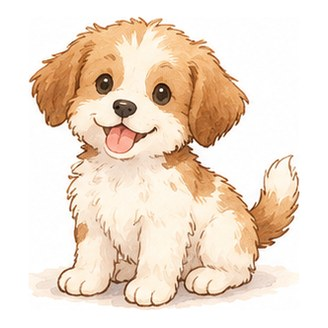
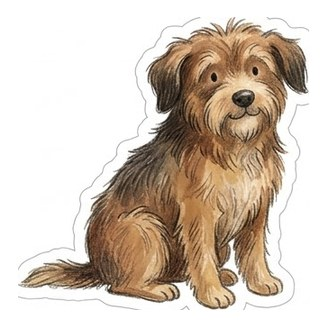
Minho scenes: 8 highlight pictures (pencil case over the head, both suspected, the cat, the mimicry, the broken umbrella, the dog behind the fence, the drawing with horns, the first-grader's pencil case) shown at the choice; big dog, crumpled test paper, ballot box and milk crate pictures on the map
Pictures made in Flow (Nano Banana 2.1, Minho's sheet and Day 2 scene as references), first-person scenes show only a hand so they fit both heroes.

diff --git a/day2/ep_minho.js b/day2/ep_minho.js
@@ -1,12 +1,12 @@
 // 최민호 — scenes by meeting (Day N = the Nth meeting with Minho; meeting 1 = Day 2). Source: 괴짜교실_시나리오_개정작업/02_인물별_시나리오/최민호_Day2-16R_전면개정.md
-// ep = {title, place, at:[x,y] (Minho on that map), with:[[id,x,y]] (others there), things:{map:[[k,x,y,w]]} (pictures laid on the map), taps:{map:[[k,x,y,r]]} (drawn things),
+// ep = {title, place, at:[x,y] (Minho on that map), with:[[id,x,y]] (others there), things:{map:[[k,x,y,w,picture?]]} (pictures laid on the map; items/<picture or k>.png), taps:{map:[[k,x,y,r]]} (drawn things),
 //  pre:[line | find], ask, choices:[{k,text,pts,r}], post:[line | find | {only:[choice…],lines} | {flag,is,lines}], flag:{name:{A:1,…}},
 //  eve:{lead, A, B, C, D, common, commonIf:{only:[…],lines}}}
 // find = {k, goal}: the goal bar shows the goal with the word + 🔊; the confirm button shows the same goal with the word (whatever was tapped).
 window.EP=window.EP||{};
 EP.minho=[
 // ■ Day 2 — 지렁이 글자 (1)
-{title:'지렁이 글자',place:'class',at:[640,600],
+{title:'지렁이 글자',scene:'minho_01',place:'class',at:[640,600],
  taps:{class:[['desk',830,425,60],['desk',400,425,55],['desk',1290,545,55],['desk',300,745,50],['pencil',612,668,16],['pencil',640,660,14]]},
  pre:[
   ['nar','','쉬는 시간. 민호가 자기 {@desk}에 걸터앉아 다리를 흔들고 있었다.'],
@@ -103,7 +103,7 @@ EP.minho=[
   D:[['me','sad','영민이가 말하지 말래서 비밀로 하기로 했어.'],['mom','smile','영민이 부탁을 들어주고 싶었구나.'],['me','sad','응. 근데 민호가 다음에 또 빌리면 된대.'],['mom','sad','그 말이 걸리지? 친구 부탁을 지키는 것도 중요해. 그런데 누가 계속 괴롭힘을 당하는 건 비밀로 두면 안 되는 일이야.'],['mom','smile','영민이한테 다시 말해 볼래? 네가 같이 가 준다고.']]}},
 
 // ■ Day 4 — 고양이를 부르는 말 (3)
-{title:'고양이를 부르는 말',place:'field',at:[1400,700],
+{title:'고양이를 부르는 말',place:'field',scene:'minho_03',at:[1400,700],
  things:{field:[['cat',1470,668,84]]},
  pre:[
   ['nar','','자전거 보관대 뒤 화단. 민호가 쪼그려 앉아 꼼짝도 안 하고 있었다. 내가 다가가자 민호가 손가락을 입에 댔다.'],
@@ -147,7 +147,7 @@ EP.minho=[
   common:[['mom','smile','그 {@cat}, 이름은 있어?'],['me','smile','아직 없어.']]}},
 
 // ■ Day 5 — 봉투는 누가? (4)
-{title:'봉투는 누가?',place:'class',at:[330,262],
+{title:'봉투는 누가?',scene:'minho_04',place:'class',at:[330,262],
  things:{class:[['envelope',1062,150,56]]},
  pre:[
   ['nar','','아침부터 교실이 시끄러웠다. 학급비 {@envelope}가 없어졌다. 몇몇 아이가 민호 쪽을 힐끔거리며 수군거렸다.'],
@@ -200,7 +200,7 @@ EP.minho=[
   common:[['me','smile','{@envelope}, 내가 찾았어. {@blackboard} 아래 틈에서.'],['mom','laugh','어머, 우리 탐정이네.']]}},
 
 // ■ Day 6 — 저눈 반장 손거 (5) ★
-{title:'저눈 반장 손거',place:'class',at:[1300,262],
+{title:'저눈 반장 손거',place:'class',scene:'minho_05',at:[1300,262],
  things:{class:[['notebook',1250,300,40]]},
  pre:[
   ['nar','','다음 국어 시간에 「나의 꿈」을 한 문장씩 발표해야 했다. 민호가 사물함 앞에 서 있어서 나는 그쪽으로 갔다.'],
@@ -333,7 +333,7 @@ EP.minho=[
   D:[['me','smile','민호한테 그만하고 작전 짜자고 했어. 민호는 앞에서 던지고, 은찬이는 뒤에서 피하라고.'],['mom','surprised','민호가 들었어?'],['me','smile','던지는 거 제일 세다고 하니까 들었어.'],['mom','laugh','다들 잘하는 자리에 세운 거네.'],['me','smile','반장 되면 이런 거 하는 건가?'],['mom','smile','그럴지도 모르지.']]}},
 
 // ■ Day 9 — 뒤집힌 우산 (8)
-{title:'뒤집힌 우산',place:'hall',at:[330,700],
+{title:'뒤집힌 우산',scene:'minho_08',place:'hall',at:[330,700],
  pre:[
   ['nar','','하교 시간. 비가 오고 바람이 셌다. 교문 옆에서 민호가 뒤집힌 {@umbrella}과 씨름하고 있었다. 나는 민호 쪽으로 갔다.'],
   ['minho','angry','아, 진짜! 바람 한 번 불었다고 뒤집히냐?'],
@@ -366,7 +366,7 @@ EP.minho=[
 
 // ■ Day 10 — 빨간 동그라미 (9)
 {title:'빨간 동그라미',place:'class',at:[640,600],
- things:{class:[['paper',762,612,48]]},
+ things:{class:[['paper',762,612,56,'paper_crumpled']]},
  pre:[
   ['nar','','받아쓰기 시험지를 돌려받은 쉬는 시간. 나는 60점이었다. 받침을 거의 다 틀렸다.'],
   ['nar','','민호 자리 쪽이 시끄러워서 그쪽으로 가 봤다.'],
@@ -406,8 +406,8 @@ EP.minho=[
   common:[['mom','smile','받침, {m}랑 같이 연습할까?'],['me','smile','응. 다음엔 70점.']]}},
 
 // ■ Day 11 — 울타리 너머 (10)
-{title:'울타리 너머',place:'field',at:[1430,430],
- things:{field:[['big_dog',1545,330,96]]},
+{title:'울타리 너머',scene:'minho_10',place:'field',at:[1430,430],
+ things:{field:[['big_dog',1545,335,120]]},
  taps:{field:[['door',1612,218,32]]},
  pre:[
   ['nar','','쉬는 시간, 학교 뒤뜰. 민호가 울타리 쪽에 서 있어서 그쪽으로 가다가, 나는 멈춰 섰다.'],
@@ -485,7 +485,7 @@ EP.minho=[
 
 // ■ Day 13 — 초코우유 (12)
 {title:'초코우유',place:'class',at:[1060,800],
- things:{class:[['milk',905,880,46],['milk',955,886,46]]},
+ things:{class:[['milk',930,888,92,'milk_crate']]},
  pre:[
   ['nar','','점심시간이 끝나 갈 무렵. 교실 뒤에 남은 급식 {@milk} {@box}가 있었다. 선생님이 먹고 싶은 사람은 가져가도 된다고 하셨다.'],
   ['nar','','민호가 {@box} 앞에 쪼그려 앉아 있어서 나는 그쪽으로 갔다.'],
@@ -518,7 +518,7 @@ EP.minho=[
   D:[['me','smile','배불러서 고맙지만 안 먹는다고 했어. 민호가 그럼 두 개 먹겠대.'],['mom','smile','배부르면 그렇게 말해도 돼. 민호도 그냥 알겠다고 했네.'],['me','laugh','응. 양손에 들고 갔어.'],['mom','laugh','민호만 신났네.']]}},
 
 // ■ Day 14 — 내 그림 지붕의 뿔 (13)
-{title:'내 그림 지붕의 뿔',place:'hall',at:[430,430],
+{title:'내 그림 지붕의 뿔',scene:'minho_13',place:'hall',at:[430,430],
  taps:{hall:[['picture',115,215,55],['picture',185,330,45],['picture',60,420,45]]},
  things:{hall:[['tape',330,560,32]]},
  pre:[
@@ -604,7 +604,7 @@ EP.minho=[
   common:[['me','laugh','그리고 「모두가 사이좋은 반」은 빼래.'],['mom','laugh','민호가 공약도 봐 줬네.']]}},
 
 // ■ Day 16R — 떨어진 필통 (15)
-{title:'떨어진 필통',place:'hall',at:[950,700],
+{title:'떨어진 필통',scene:'minho_15',place:'hall',at:[950,700],
  things:{hall:[['eraser',1010,762,26],['pcase',900,772,50]]},
  pre:[
   ['nar','','쉬는 시간. 1학년 교실 앞 복도를 지나는데, 앞서가던 민호가 갑자기 멈춰 섰다. 나는 민호 쪽으로 갔다.'],
@@ -641,7 +641,7 @@ EP.minho=[
 
 // 특별 장면 — 접힌 종이 (투표일): only on the election day, if Minho was met 4+ times; does not count as a meeting
 EP.minho_vote={title:'접힌 종이',place:'class',at:[700,330],vote:true,
- things:{class:[['box',1180,262,70],['paper',760,350,36]]},
+ things:{class:[['box',1180,262,80,'ballot_box'],['paper',760,350,36]]},
  pre:[
   ['nar','','투표 날. 교실 뒤에 투표함이 놓였다. 나는 후보라서 투표를 먼저 마쳤다. 민호가 줄 뒤쪽에 서 있어서 나는 그쪽으로 갔다.'],
   {k:'box',goal:'「{x}」 찾기'},

diff --git a/index.html b/index.html
@@ -119,14 +119,14 @@ body,button{word-break:keep-all;overflow-wrap:break-word}
 <div id="fader"></div>
 <script>
 // same address, newest version: if the page this phone has kept is older than the one online, fetch the new one and reopen
-const BUILD='1024085451';
+const BUILD='1024091438';
 try{fetch(location.pathname,{cache:'no-store'}).then(r=>r.text()).then(t=>{const m=t.match(/const BUILD='(\d+)'/);if(m&&m[1]!==BUILD&&sessionStorage.getItem('upd')!==m[1]){sessionStorage.setItem('upd',m[1]);fetch(location.pathname,{cache:'reload'}).then(()=>location.reload())}}).catch(()=>{})}catch(e){}
 </script>
-<script src="i18n.js?v=1024085451"></script>
-<script src="i18n_prologue_v2.js?v=1024085451"></script>
-<script src="day2/i18n_engine.js?v=1024085451"></script>
-<script src="day2/data.js?v=1024085451"></script>
-<script src="day3/data.js?v=1024085451"></script>
+<script src="i18n.js?v=1024091438"></script>
+<script src="i18n_prologue_v2.js?v=1024091438"></script>
+<script src="day2/i18n_engine.js?v=1024091438"></script>
+<script src="day2/data.js?v=1024091438"></script>
+<script src="day3/data.js?v=1024091438"></script>
 <script>
 // ---------- data ----------
 const MW=1672,MH=941,KID=180;
@@ -453,10 +453,10 @@ function pickHero(){const m=document.getElementById('modal'),c=document.getEleme
  c.innerHTML=`<h2>${tr('괴짜교실 반장되기')}</h2><p>${tr('말 한마디 못 하는 전학생,<br>반장 선거에 나가다.')}</p><p style="margin-top:14px">${tr('누구로 할까요?')}</p>${(()=>{const s=loadSave();return s&&s.day>=2&&s.mode===UI+'-'+LANG?`<p><button class="big" id="cont">${tr(s.day+'일차부터 이어 하기')}</button></p>`:''})()}<div class="pick heroes"><button data-h="hero_f"><img src="faces/hero_f_smile.jpg" alt="여자 주인공"></button><button data-h="hero_m"><img src="faces/hero_m_smile.jpg" alt="남자 주인공"></button></div>`;
  m.classList.add('on');{const cb=document.getElementById('cont');if(cb)cb.onclick=()=>{const s=loadSave();HERO=s.hero;Object.assign(HEART,s.heart||{});(s.found||[]).forEach(k=>FOUND.add(k));HEART_D1={...HEART};chime();(typeof contGame==='function'?contGame(s):startDay(Math.min(s.day,Object.keys(window.D3||{}).length?3:2)))}}c.querySelectorAll('.pick button').forEach(b=>b.onclick=()=>{HERO=b.dataset.h;m.classList.remove('on');chime();bgm('day');load('home_am');say([['nar','','이사 온 다음 날 아침. 아직 풀지 못한 상자들이 쌓여 있다.'],['think','sad','(오늘부터 새 학교야. 여기 말도 아직 서툰데…….)'],['think','smile','({m}한테 인사하고 학교 가야지.)']],morning)})}
 </script>
-<script src="day2/engine.js?v=1024085451"></script>
-<script src="day2/ep_minho.js?v=1024085451"></script>
-<script src="day2/i18n_meet.js?v=1024085451"></script>
-<script src="day2/meet.js?v=1024085451"></script>
+<script src="day2/engine.js?v=1024091438"></script>
+<script src="day2/ep_minho.js?v=1024091438"></script>
+<script src="day2/i18n_meet.js?v=1024091438"></script>
+<script src="day2/meet.js?v=1024091438"></script>
 <script>
 // the goal shows big for a few seconds, then folds into a small pill (tap it to open it again)
 {const g=document.getElementById('goal');let t=null;const big=()=>{g.classList.remove('mini');clearTimeout(t);t=setTimeout(()=>g.classList.add('mini'),4000)};

diff --git a/day2/meet.js b/day2/meet.js
@@ -27,6 +27,11 @@ setDay=function(n){_setDay(NATIVE_BY[n]?n:2);DAY=n;for(const k in THINGS)delete 
  for(const f of D2IDS){const e=epNext(f,EPIDX[f]);if(!e)continue;
   for(const[m,ts]of Object.entries(e.taps||{}))NATIVE[m]=(NATIVE[m]||[]).concat(ts);
   for(const[m,ts]of Object.entries(e.things||{}))THINGS[m]=(THINGS[m]||[]).concat(ts)}};
+// a thing laid on the map may use its own picture ([k,x,y,w,picture]): a crumpled test paper is still {paper}
+showThings=function(id){world.querySelectorAll('.thing').forEach(e=>e.remove());const things=placeThings(id);
+ for(const[k,x,y,w,img]of things){const it=document.createElement('img');it.className='item thing';it.src=`items/${img||k}.png`;
+  it.style.cssText=`position:absolute;width:${w||56}px;left:${x}px;top:${y}px;transform:translate(-50%,-100%);z-index:${Math.round(y)+1};pointer-events:none;filter:drop-shadow(0 2px 2px rgba(0,0,0,.25))`;world.appendChild(it)}
+ OBJ[id]=(NATIVE[id]||[]).concat(things.map(([k,x,y,w])=>[k,x,y-(w||56)*.4,Math.max(30,(w||56)*.55)]))};
 // a morning for every day: Day 2 and 3 have their own; later days Mom asks for one of the things that always lie in the kitchen
 const MORNING_KEYS=['apple','bread','cup','umbrella','bag','handkerchief','apron','notebook'];
 function morningOf(n){if(MORNING[n])return MORNING[n];const k=MORNING_KEYS[(n-4)%MORNING_KEYS.length];
@@ -52,13 +57,13 @@ function runSteps(steps,choice,done){const q=(steps||[]).slice();
   const go=()=>{if(!q.length){done&&done();return}const f=q.shift();find(f.k,()=>{TODAY.add(f.k);next()},f.goal||'「{x}」 찾기')};
   if(lines.length)say(lines,go);else go()};
  next()}
-const SCENE_OK=new Set();// highlight pictures that exist (scenes/<name>.jpg); others play on the map
+// ep.scene = highlight picture (scenes/<name>.jpg) shown from the moment before the choice; without it the scene plays on the map
 const _d2Talk=d2Talk;
 d2Talk=function(id){const e=epNext(id,EPIDX[id]);
  if(!e||PICKS.includes(id)||!['d2_class'].includes(stage)||PICKS.length>=needToday()){
   if(e||!DD()[id]){say([AGAIN[id]||['think','smile','(오늘은 여기까지. 내일 또 얘기해 보자.)']]);return}
   return _d2Talk(id)}
- setGoal('');const pic=e.scene&&SCENE_OK.has(e.scene);
+ setGoal('');const pic=!!e.scene;
  runSteps(e.pre,null,()=>{const choose=()=>ask(e.ask||'어떻게 할까?',e.choices,o=>{D2CHOICE[id]=o.k;sceneEl.classList.remove('on');
   for(const[f,v]of Object.entries(e.flag||{}))FLAGS[f]=!!v[o.k];
   if(e.vote)FLAGS[id+'_vote']=1;else MEET[id]=(MEET[id]||0)+1;TODAYEP[id]=e;
